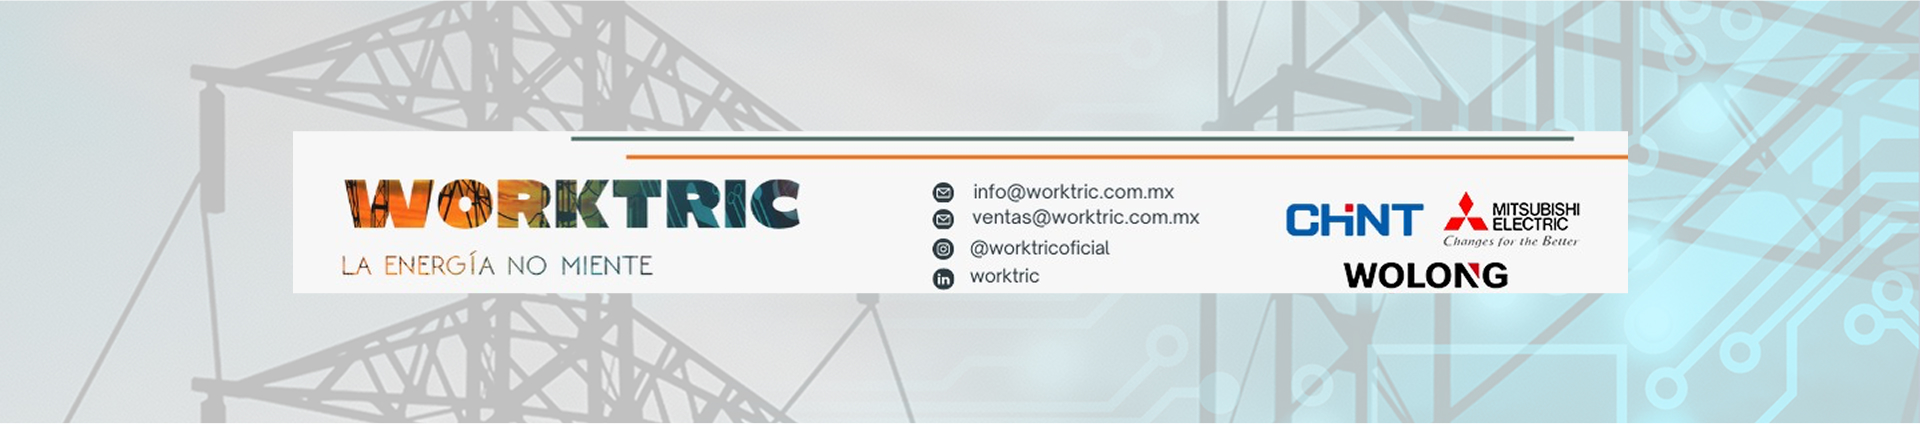
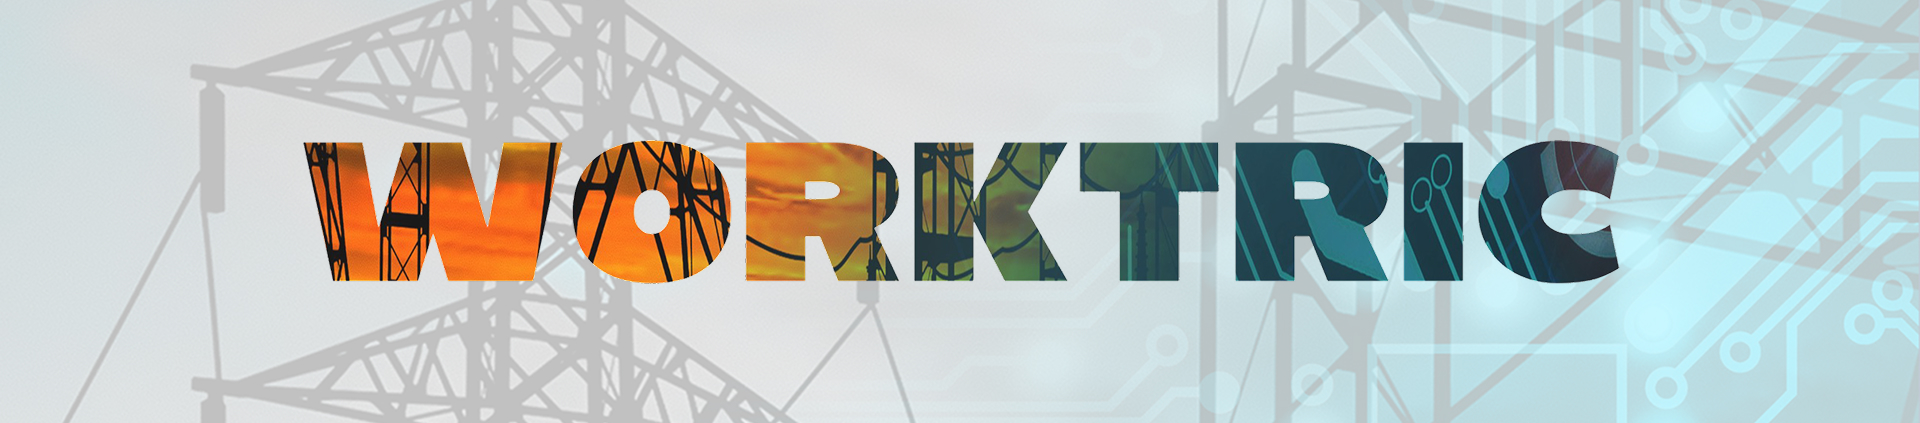
feat: wolong mistsubishi link remove and worttric image fix

Changed region(s): [[0.125, 0.3073, 0.875, 0.7069], [0.25, 0.9835, 1.0, 1.0], [0.0, 0.9835, 0.2188, 1.0]]

diff --git a/home.html b/home.html
@@ -75,11 +75,6 @@
 
                 <a class="dropdown-item" href="chint.html">Chint Electric</a>
                 <div class="dropdown-divider"></div>
-
-                <a class="dropdown-item" href="wolong.html">Wolong</a>
-                <div class="dropdown-divider"></div>
-
-                <a class="dropdown-item" href="mitsubishi.html">Mitsubishi</a>
               </div>
             </li>
             <li class="nav-item active">
@@ -206,13 +201,9 @@
         <div id="brandChnt" class="brands-animate img-chnt"></div>
       </a>
 
-      <a href="wolong.html">
-        <div id="brandWolong" class="brands-animate img-wolong"></div>
-      </a>
+      <div id="brandWolong" class="brands-animate img-wolong"></div>
 
-      <a href="mitsubishi.html">
-        <div id="brandMitsubishi" class="brands-animate img-mitsubishi"></div>
-      </a>
+      <div id="brandMitsubishi" class="brands-animate img-mitsubishi"></div>
     </section>
 
     <section class="container" id="galeria">

diff --git a/index.html b/index.html
@@ -75,11 +75,6 @@
 
                 <a class="dropdown-item" href="chint.html">Chint Electric</a>
                 <div class="dropdown-divider"></div>
-
-                <a class="dropdown-item" href="wolong.html">Wolong</a>
-                <div class="dropdown-divider"></div>
-
-                <a class="dropdown-item" href="mitsubishi.html">Mitsubishi</a>
               </div>
             </li>
             <li class="nav-item active">
@@ -205,13 +200,9 @@
         <div id="brandChnt" class="brands-animate img-chnt"></div>
       </a>
 
-      <a href="wolong.html">
-        <div id="brandWolong" class="brands-animate img-wolong"></div>
-      </a>
+      <div id="brandWolong" class="brands-animate img-wolong"></div>
 
-      <a href="mitsubishi.html">
-        <div id="brandMitsubishi" class="brands-animate img-mitsubishi"></div>
-      </a>
+      <div id="brandMitsubishi" class="brands-animate img-mitsubishi"></div>
     </section>
 
     <section class="container" id="galeria">

diff --git a/chint.html b/chint.html
@@ -72,11 +72,6 @@
 
                 <a class="dropdown-item" href="chint.html">Chint Electric</a>
                 <div class="dropdown-divider"></div>
-
-                <a class="dropdown-item" href="wolong.html">Wolong</a>
-                <div class="dropdown-divider"></div>
-
-                <a class="dropdown-item" href="mitsubishi.html">Mitsubishi</a>
               </div>
             </li>
             <li class="nav-item active">

diff --git a/mitsubishi.html b/mitsubishi.html
@@ -72,11 +72,6 @@
 
                 <a class="dropdown-item" href="chint.html">Chint Electric</a>
                 <div class="dropdown-divider"></div>
-
-                <a class="dropdown-item" href="wolong.html">Wolong</a>
-                <div class="dropdown-divider"></div>
-
-                <a class="dropdown-item" href="mitsubishi.html">Mitsubishi</a>
               </div>
             </li>
             <li class="nav-item active">

diff --git a/wolong.html b/wolong.html
@@ -72,11 +72,6 @@
 
                 <a class="dropdown-item" href="chint.html">Chint Electric</a>
                 <div class="dropdown-divider"></div>
-
-                <a class="dropdown-item" href="wolong.html">Wolong</a>
-                <div class="dropdown-divider"></div>
-
-                <a class="dropdown-item" href="mitsubishi.html">Mitsubishi</a>
               </div>
             </li>
             <li class="nav-item active">

diff --git a/worktric.html b/worktric.html
@@ -73,11 +73,6 @@
 
                 <a class="dropdown-item" href="chint.html">Chint Electric</a>
                 <div class="dropdown-divider"></div>
-
-                <a class="dropdown-item" href="wolong.html">Wolong</a>
-                <div class="dropdown-divider"></div>
-
-                <a class="dropdown-item" href="mitsubishi.html">Mitsubishi</a>
               </div>
             </li>
             <li class="nav-item active">
